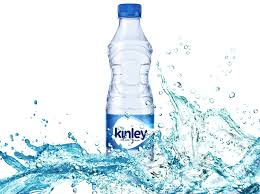
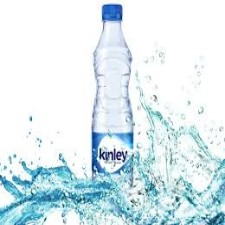
Initial commit

diff --git a/watercanUI/src/app/api.service.ts b/watercanUI/src/app/api.service.ts
@@ -21,8 +21,8 @@ export class ApiService {
     return this.http.get(this.baseurl + '/product/', {headers: this.httpHeaders});
   }
 
-  getProductDetails(): Observable<Blob>{
-    return this.http.get(this.baseurl + '/product_details/', {headers: this.httpHeaders}, {responseType: "blob"});
+  getProductDetails(): Observable<any>{
+    return this.http.get(this.baseurl + '/product_details/', {headers: this.httpHeaders});
   }
 
 }

diff --git a/watercanUI/src/app/products/products.component.css b/watercanUI/src/app/products/products.component.css
@@ -34,6 +34,9 @@
 
 img{
   width: 100%;
+  position: relative;
+  padding-left: 25px;
+  padding-top: 20px;
 }
 
 .product-bottom .fa{
